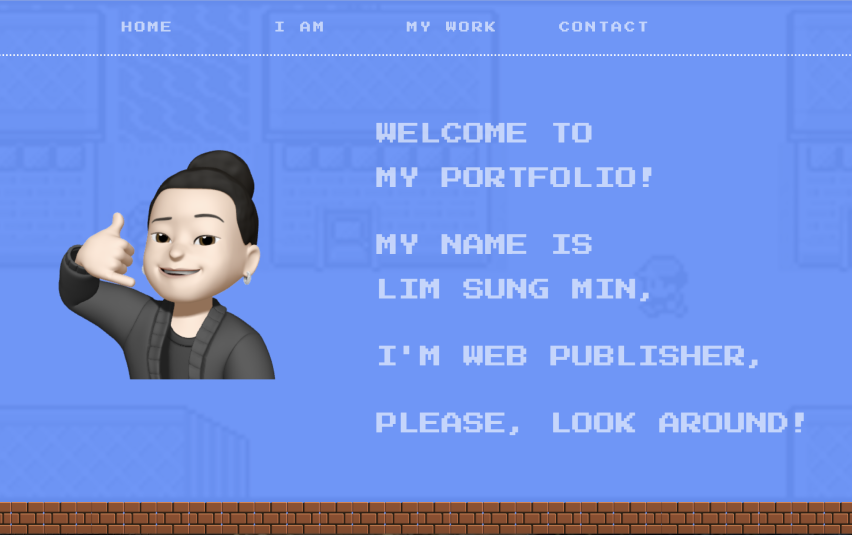
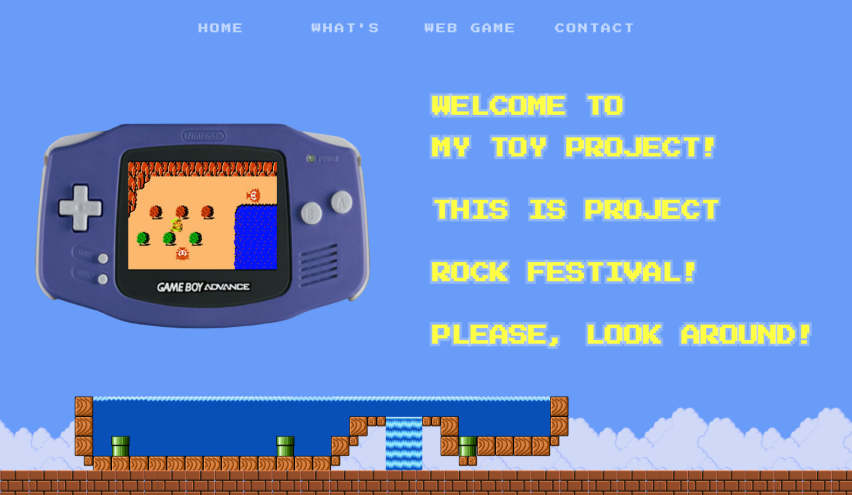
.

diff --git a/src/component/page/mainSec/mainSec.tsx b/src/component/page/mainSec/mainSec.tsx
@@ -51,9 +51,6 @@ const MainSecond = () => {
             exit={{ y: window.innerHeight, opacity: 0 }}
           >
             <div className="mainBack">
-              <div className="mario">
-                <video src="videos/game.mp4" muted autoPlay loop></video>
-              </div>
               <Header />
               <main>
                 <div className="MainInfo">
@@ -63,7 +60,18 @@ const MainSecond = () => {
                     animate="animate"
                     transition={transition}
                   >
-                    <div className="MainPic"></div>
+                    <div className="MainPic">
+                      <div className="videoLock">
+                        <div className="mario">
+                          <video
+                            src="videos/game.mp4"
+                            muted
+                            autoPlay
+                            loop
+                          ></video>
+                        </div>
+                      </div>
+                    </div>
                   </motion.div>
                   <motion.div
                     variants={textReveal}
@@ -73,22 +81,22 @@ const MainSecond = () => {
                   >
                     <div className="MainText">
                       <TypeIt
-                        options={{ loop: true, speed: 80 }}
+                        options={{ loop: true, speed: 50 }}
                         getBeforeInit={(instance) => {
                           instance
                             .type(
-                              "<br />welcome to<br /><br />my portfolio!<br /><br /><br />my name is<br /><br /> lim sung min!"
+                              "welcome to<br /><br />my toy project!<br /><br /><br />this is project<br /><br /><br />sound novel!"
                             )
                             .pause(750)
-                            .delete(14)
+                            .delete(12)
                             .pause(500)
-                            .type("i'm web publisher!")
+                            .type("rock festival!")
                             .pause(750)
-                            .type("<br /><br /><br />please, look around!")
+                            .type("<br /><br /><br />and super famicom!")
                             .pause(750)
-                            .delete(20)
+                            .delete(18)
                             .pause(500)
-                            .type("and have a nice day!")
+                            .type("please, look around!")
                             .pause(750);
 
                           return instance;

diff --git a/src/component/page/mainSec/mainSec.scss b/src/component/page/mainSec/mainSec.scss
@@ -40,6 +40,10 @@
       height: auto !important;
       flex-direction: column;
       text-transform: uppercase;
+      background-image: url(../../../assets//images/Super-Mario-Nintendo-retro-games-artwork-video-games-1360133-wallhere.com.jpg);
+      background-position: top 10% center;
+      background-repeat: no-repeat;
+      background-size: cover;
       @include flex(flex, center, center);
 
       main {
@@ -50,22 +54,6 @@
         @include flex(flex, center, center);
       }
 
-      .mario {
-        width: 100%;
-        height: 35rem;
-        position: absolute;
-        opacity: 0.07;
-        margin: 3rem 0 auto;
-        @include flex(flex, center, center);
-      }
-
-      video {
-        width: 100%;
-        height: 100%;
-        object-fit: cover;
-        z-index: -1;
-      }
-
       .MainInfo {
         width: auto;
         height: 30rem;
@@ -73,12 +61,36 @@
         @include flex(flex, center, center);
 
         .MainPic {
-          width: 40rem;
-          height: 30rem;
-          background-image: url("../../../assets/images/me.png");
-          background-position: top 10% center;
+          width: 35rem;
+          height: 20rem;
+          background-image: url(../../../assets/images/gameboy_advance.png);
+          background-position: center center;
           background-repeat: no-repeat;
-          flex-direction: column;
+          background-size: contain;
+          z-index: -10;
+          margin: 0 5rem 7rem 2rem;
+          @include flex(flex, center, center);
+        }
+        .videoLock {
+          width: 15.5rem;
+          height: 10.5rem;
+          z-index: 10;
+          position: absolute;
+          margin: 0 0 2rem 0;
+          @include flex(flex, center, center);
+        }
+        .mario {
+          width: 100%;
+          height: 100%;
+          position: absolute;
+          @include flex(flex, center, center);
+        }
+
+        video {
+          width: 100%;
+          height: 100%;
+          object-fit: cover;
+          z-index: -1;
         }
 
         .MainText {
@@ -87,8 +99,13 @@
           font-size: 2rem;
           text-align: left;
           font-family: "PressStart2P-Regular";
-          color: yellow;
           flex-direction: column;
+          font-weight: bold;
+          text-align: left;
+          padding: 30px;
+          margin-bottom: 5rem;
+          color: rgb(255, 255, 0);
+          -webkit-text-stroke: 10px #ffffff44;
         }
       }
     }

diff --git a/src/component/page/work/Work.scss b/src/component/page/work/Work.scss
@@ -42,6 +42,7 @@
 
   .workScroll {
     width: 40rem;
+    margin-bottom: 8rem;
     position: relative;
     @include flex(flex, center, center);
   }
@@ -54,7 +55,7 @@
     font-size: 1.4rem;
     text-transform: uppercase;
     opacity: 0.6;
-    margin: 0 3rem 0 0;
+    margin: 0 5rem 0 0;
     flex-direction: column;
     @include flex(flex, center, center);
   }
@@ -79,6 +80,7 @@
     background-size: cover;
     border: 3px solid rgb(255, 255, 255);
     border-radius: 3px;
+    margin-bottom: 8rem;
     @include flex(flex, center, center);
   }
 }

diff --git a/src/component/page/introduce/IntroDuce.tsx b/src/component/page/introduce/IntroDuce.tsx
@@ -56,9 +56,6 @@ const IntroDuce = () => {
             exit={{ y: window.innerHeight, opacity: 0 }}
           >
             <div className="mainBack">
-              <div className="mario">
-                <video src="videos/game.mp4" muted autoPlay loop></video>
-              </div>
               <Header />
               <main>
                 <div className="MainInfo">

diff --git a/src/component/page/work/Work.tsx b/src/component/page/work/Work.tsx
@@ -57,9 +57,6 @@ const Work = () => {
             exit={{ y: window.innerHeight, opacity: 0 }}
           >
             <div className="mainBack">
-              <div className="mario">
-                <video src="videos/game.mp4" muted autoPlay loop></video>
-              </div>
               <Header />
               <main>
                 <div className="MainInfo">

diff --git a/src/component/page/home/home.scss b/src/component/page/home/home.scss
@@ -32,7 +32,7 @@ $target: rgb(255, 255, 255);
 body {
   max-width: auto;
   height: auto !important;
-  background-color: #5d93fd;
+  background-color: #689cf8;
   z-index: 1;
   @include flex(flex, center, center);
 }

diff --git a/src/component/block/Header/Header.tsx b/src/component/block/Header/Header.tsx
@@ -29,7 +29,7 @@ const mainSecRoute = [
     route: "/introduce",
   },
   {
-    title: "my work",
+    title: "web game",
     route: "/work",
   },
   {
